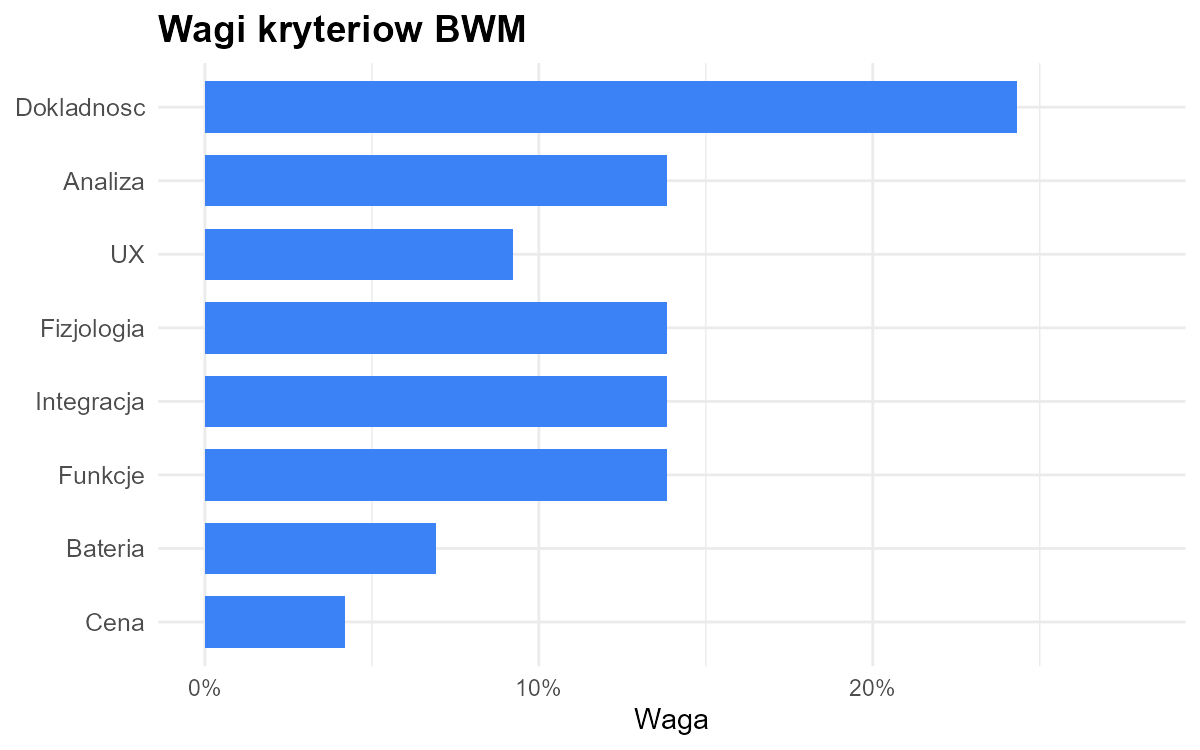
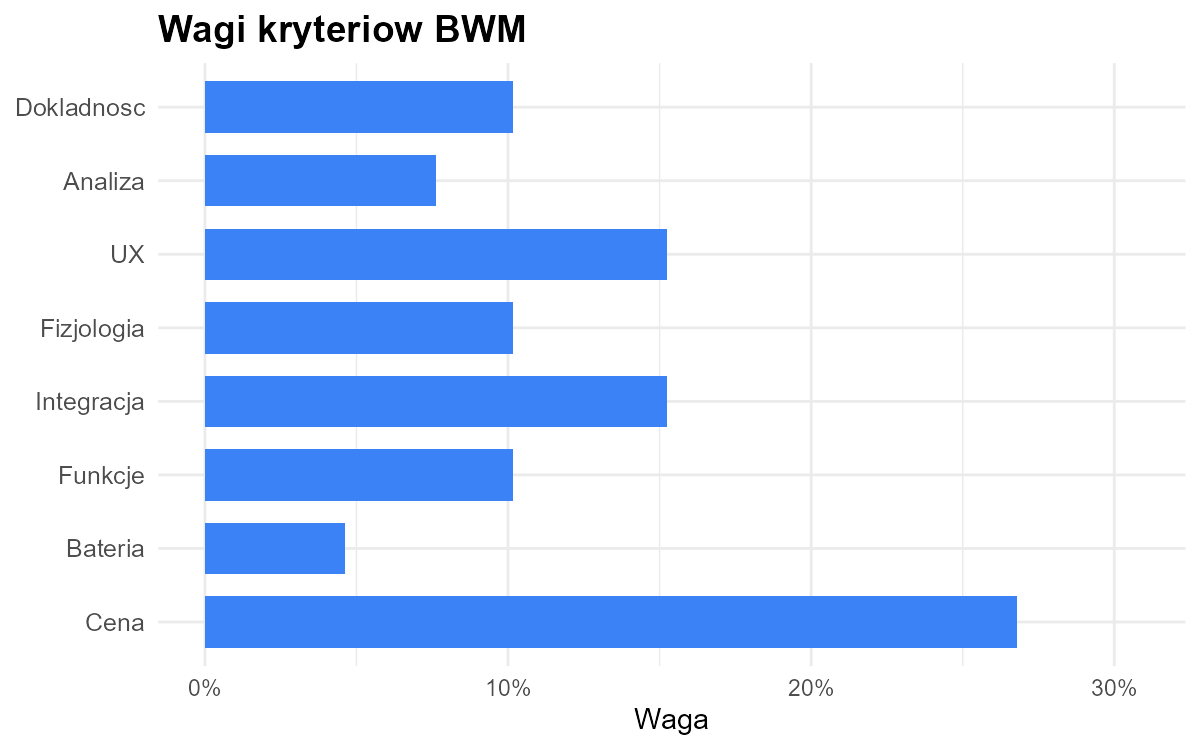
poprawa: zmiana wag kryteriow w BWM na cene i stabilizacja rankingu we wszystkich metodach

diff --git a/index.html b/index.html
@@ -513,36 +513,36 @@
               </tr>
             </thead>
             <tbody>
-              <tr><td>1</td><td>AutoSleep</td><td>5</td><td>6</td><td>8</td><td>5</td><td>5</td><td>6</td><td>9</td><td>3</td></tr>
-              <tr><td>2</td><td>AutoSleep</td><td>1</td><td>6</td><td>6</td><td>6</td><td>7</td><td>5</td><td>9</td><td>9</td></tr>
-              <tr><td>3</td><td>AutoSleep</td><td>8</td><td>8</td><td>7</td><td>9</td><td>5</td><td>8</td><td>6</td><td>9</td></tr>
-              <tr><td>4</td><td>AutoSleep</td><td>9</td><td>9</td><td>9</td><td>3</td><td>2</td><td>8</td><td>6</td><td>1</td></tr>
-              <tr><td>5</td><td>AutoSleep</td><td>2</td><td>7</td><td>9</td><td>8</td><td>7</td><td>8</td><td>3</td><td>1</td></tr>
-              <tr><td>6</td><td>AutoSleep</td><td>7</td><td>6</td><td>9</td><td>3</td><td>7</td><td>9</td><td>1</td><td>4</td></tr>
-              <tr><td>7</td><td>AutoSleep</td><td>9</td><td>3</td><td>7</td><td>7</td><td>4</td><td>8</td><td>4</td><td>9</td></tr>
-              <tr><td>8</td><td>AutoSleep</td><td>6</td><td>6</td><td>9</td><td>9</td><td>6</td><td>9</td><td>3</td><td>5</td></tr>
-              <tr><td>9</td><td>AutoSleep</td><td>9</td><td>5</td><td>5</td><td>2</td><td>5</td><td>9</td><td>2</td><td>4</td></tr>
-              <tr><td>10</td><td>AutoSleep</td><td>1</td><td>9</td><td>9</td><td>5</td><td>9</td><td>6</td><td>5</td><td>5</td></tr>
-              <tr><td>11</td><td>AutoSleep</td><td>7</td><td>4</td><td>9</td><td>5</td><td>9</td><td>5</td><td>2</td><td>2</td></tr>
-              <tr><td>12</td><td>AutoSleep</td><td>5</td><td>4</td><td>7</td><td>6</td><td>5</td><td>7</td><td>4</td><td>3</td></tr>
-              <tr><td>13</td><td>AutoSleep</td><td>8</td><td>6</td><td>9</td><td>2</td><td>6</td><td>7</td><td>3</td><td>1</td></tr>
-              <tr><td>14</td><td>AutoSleep</td><td>6</td><td>6</td><td>8</td><td>2</td><td>5</td><td>8</td><td>2</td><td>7</td></tr>
-              <tr><td>15</td><td>AutoSleep</td><td>8</td><td>7</td><td>9</td><td>5</td><td>7</td><td>6</td><td>4</td><td>2</td></tr>
-              <tr><td>1</td><td>Sleep as Android</td><td>9</td><td>9</td><td>6</td><td>7</td><td>6</td><td>6</td><td>9</td><td>9</td></tr>
-              <tr><td>2</td><td>Sleep as Android</td><td>2</td><td>6</td><td>3</td><td>6</td><td>5</td><td>6</td><td>4</td><td>3</td></tr>
-              <tr><td>3</td><td>Sleep as Android</td><td>8</td><td>1</td><td>1</td><td>6</td><td>5</td><td>6</td><td>4</td><td>3</td></tr>
-              <tr><td>4</td><td>Sleep as Android</td><td>9</td><td>9</td><td>7</td><td>7</td><td>1</td><td>5</td><td>3</td><td>4</td></tr>
-              <tr><td>5</td><td>Sleep as Android</td><td>8</td><td>9</td><td>1</td><td>5</td><td>5</td><td>1</td><td>3</td><td>7</td></tr>
-              <tr><td>6</td><td>Sleep as Android</td><td>9</td><td>7</td><td>9</td><td>4</td><td>3</td><td>9</td><td>5</td><td>4</td></tr>
-              <tr><td>7</td><td>Sleep as Android</td><td>9</td><td>4</td><td>4</td><td>9</td><td>1</td><td>5</td><td>3</td><td>6</td></tr>
-              <tr><td>8</td><td>Sleep as Android</td><td>9</td><td>9</td><td>6</td><td>4</td><td>6</td><td>8</td><td>1</td><td>7</td></tr>
-              <tr><td>9</td><td>Sleep as Android</td><td>8</td><td>1</td><td>7</td><td>5</td><td>4</td><td>6</td><td>3</td><td>9</td></tr>
-              <tr><td>10</td><td>Sleep as Android</td><td>9</td><td>4</td><td>6</td><td>6</td><td>9</td><td>6</td><td>3</td><td>1</td></tr>
-              <tr><td>11</td><td>Sleep as Android</td><td>9</td><td>6</td><td>5</td><td>7</td><td>2</td><td>4</td><td>1</td><td>8</td></tr>
-              <tr><td>12</td><td>Sleep as Android</td><td>9</td><td>9</td><td>4</td><td>9</td><td>5</td><td>9</td><td>1</td><td>5</td></tr>
-              <tr><td>13</td><td>Sleep as Android</td><td>9</td><td>5</td><td>6</td><td>6</td><td>4</td><td>8</td><td>9</td><td>6</td></tr>
-              <tr><td>14</td><td>Sleep as Android</td><td>8</td><td>6</td><td>6</td><td>7</td><td>3</td><td>4</td><td>4</td><td>5</td></tr>
-              <tr><td>15</td><td>Sleep as Android</td><td>3</td><td>8</td><td>4</td><td>7</td><td>2</td><td>9</td><td>9</td><td>4</td></tr>
+              <tr><td>1</td><td>AutoSleep</td><td>6</td><td>7</td><td>8</td><td>6</td><td>6</td><td>6</td><td>9</td><td>2</td></tr>
+              <tr><td>2</td><td>AutoSleep</td><td>1</td><td>7</td><td>6</td><td>7</td><td>8</td><td>5</td><td>9</td><td>9</td></tr>
+              <tr><td>3</td><td>AutoSleep</td><td>9</td><td>9</td><td>7</td><td>9</td><td>6</td><td>8</td><td>5</td><td>9</td></tr>
+              <tr><td>4</td><td>AutoSleep</td><td>9</td><td>9</td><td>9</td><td>2</td><td>3</td><td>8</td><td>5</td><td>1</td></tr>
+              <tr><td>5</td><td>AutoSleep</td><td>1</td><td>8</td><td>9</td><td>9</td><td>8</td><td>8</td><td>2</td><td>1</td></tr>
+              <tr><td>6</td><td>AutoSleep</td><td>8</td><td>7</td><td>9</td><td>4</td><td>8</td><td>9</td><td>1</td><td>3</td></tr>
+              <tr><td>7</td><td>AutoSleep</td><td>9</td><td>4</td><td>7</td><td>8</td><td>5</td><td>8</td><td>3</td><td>9</td></tr>
+              <tr><td>8</td><td>AutoSleep</td><td>7</td><td>7</td><td>9</td><td>9</td><td>7</td><td>9</td><td>2</td><td>4</td></tr>
+              <tr><td>9</td><td>AutoSleep</td><td>9</td><td>6</td><td>5</td><td>3</td><td>6</td><td>9</td><td>1</td><td>3</td></tr>
+              <tr><td>10</td><td>AutoSleep</td><td>2</td><td>9</td><td>9</td><td>6</td><td>9</td><td>6</td><td>4</td><td>4</td></tr>
+              <tr><td>11</td><td>AutoSleep</td><td>8</td><td>5</td><td>9</td><td>6</td><td>9</td><td>5</td><td>1</td><td>1</td></tr>
+              <tr><td>12</td><td>AutoSleep</td><td>6</td><td>5</td><td>7</td><td>7</td><td>6</td><td>7</td><td>3</td><td>2</td></tr>
+              <tr><td>13</td><td>AutoSleep</td><td>9</td><td>7</td><td>9</td><td>3</td><td>7</td><td>7</td><td>4</td><td>1</td></tr>
+              <tr><td>14</td><td>AutoSleep</td><td>7</td><td>7</td><td>8</td><td>3</td><td>6</td><td>8</td><td>1</td><td>6</td></tr>
+              <tr><td>15</td><td>AutoSleep</td><td>9</td><td>8</td><td>9</td><td>6</td><td>8</td><td>6</td><td>3</td><td>1</td></tr>
+              <tr><td>1</td><td>Sleep as Android</td><td>9</td><td>8</td><td>6</td><td>6</td><td>6</td><td>5</td><td>9</td><td>9</td></tr>
+              <tr><td>2</td><td>Sleep as Android</td><td>3</td><td>5</td><td>3</td><td>5</td><td>5</td><td>7</td><td>5</td><td>3</td></tr>
+              <tr><td>3</td><td>Sleep as Android</td><td>7</td><td>1</td><td>1</td><td>5</td><td>5</td><td>5</td><td>5</td><td>3</td></tr>
+              <tr><td>4</td><td>Sleep as Android</td><td>9</td><td>9</td><td>7</td><td>8</td><td>1</td><td>4</td><td>4</td><td>4</td></tr>
+              <tr><td>5</td><td>Sleep as Android</td><td>7</td><td>9</td><td>1</td><td>4</td><td>5</td><td>1</td><td>4</td><td>7</td></tr>
+              <tr><td>6</td><td>Sleep as Android</td><td>9</td><td>6</td><td>9</td><td>3</td><td>3</td><td>9</td><td>6</td><td>4</td></tr>
+              <tr><td>7</td><td>Sleep as Android</td><td>9</td><td>3</td><td>4</td><td>8</td><td>1</td><td>4</td><td>4</td><td>6</td></tr>
+              <tr><td>8</td><td>Sleep as Android</td><td>8</td><td>9</td><td>6</td><td>3</td><td>6</td><td>7</td><td>2</td><td>7</td></tr>
+              <tr><td>9</td><td>Sleep as Android</td><td>7</td><td>1</td><td>7</td><td>4</td><td>4</td><td>5</td><td>4</td><td>9</td></tr>
+              <tr><td>10</td><td>Sleep as Android</td><td>9</td><td>3</td><td>6</td><td>5</td><td>9</td><td>5</td><td>4</td><td>1</td></tr>
+              <tr><td>11</td><td>Sleep as Android</td><td>8</td><td>5</td><td>5</td><td>6</td><td>2</td><td>3</td><td>2</td><td>8</td></tr>
+              <tr><td>12</td><td>Sleep as Android</td><td>9</td><td>9</td><td>4</td><td>9</td><td>5</td><td>8</td><td>1</td><td>5</td></tr>
+              <tr><td>13</td><td>Sleep as Android</td><td>8</td><td>4</td><td>6</td><td>5</td><td>4</td><td>7</td><td>9</td><td>6</td></tr>
+              <tr><td>14</td><td>Sleep as Android</td><td>7</td><td>5</td><td>6</td><td>6</td><td>3</td><td>3</td><td>5</td><td>5</td></tr>
+              <tr><td>15</td><td>Sleep as Android</td><td>2</td><td>7</td><td>4</td><td>6</td><td>2</td><td>9</td><td>9</td><td>4</td></tr>
               <tr><td>1</td><td>Garmin Sleep Advanced</td><td>5</td><td>1</td><td>9</td><td>8</td><td>6</td><td>6</td><td>9</td><td>7</td></tr>
               <tr><td>2</td><td>Garmin Sleep Advanced</td><td>6</td><td>2</td><td>6</td><td>4</td><td>9</td><td>3</td><td>9</td><td>9</td></tr>
               <tr><td>3</td><td>Garmin Sleep Advanced</td><td>3</td><td>7</td><td>2</td><td>9</td><td>8</td><td>5</td><td>5</td><td>9</td></tr>
@@ -586,16 +586,16 @@
         <div class="section-label">SEKCJA 4</div>
         <h3>Wagi kryteriów</h3>
         <p>Wagi kryteriów zostały wyznaczone metodą Best-Worst Method (BWM).</p>
-        <p>W przykładowej analizie za najważniejsze kryterium uznano dokładność pomiaru snu.</p>
+        <p>W przykładowej analizie za najważniejsze kryterium uznano cenę/subskrypcję, a także łatwość obsługi (UX) i integrację z urządzeniami.</p>
         <div class="info-boxes" style="grid-template-columns: repeat(4, 1fr); margin-top: 18px;">
-          <div class="info-box"><h4>Dokladnosc</h4><p>24.3%</p></div>
-            <div class="info-box"><h4>Analiza</h4><p>13.8%</p></div>
-            <div class="info-box"><h4>UX</h4><p>9.2%</p></div>
-            <div class="info-box"><h4>Fizjologia</h4><p>13.8%</p></div>
-            <div class="info-box"><h4>Integracja</h4><p>13.8%</p></div>
-            <div class="info-box"><h4>Funkcje</h4><p>13.8%</p></div>
-            <div class="info-box"><h4>Bateria</h4><p>6.9%</p></div>
-            <div class="info-box"><h4>Cena</h4><p>4.2%</p></div>
+          <div class="info-box"><h4>Dokladnosc</h4><p>10.2%</p></div>
+            <div class="info-box"><h4>Analiza</h4><p>7.6%</p></div>
+            <div class="info-box"><h4>UX</h4><p>15.2%</p></div>
+            <div class="info-box"><h4>Fizjologia</h4><p>10.2%</p></div>
+            <div class="info-box"><h4>Integracja</h4><p>15.2%</p></div>
+            <div class="info-box"><h4>Funkcje</h4><p>10.2%</p></div>
+            <div class="info-box"><h4>Bateria</h4><p>4.6%</p></div>
+            <div class="info-box"><h4>Cena</h4><p>26.8%</p></div>
         </div>
         <img src="man/figures/README-bwm-1.png" class="chart-img" alt="Wagi BWM">
       </section>
@@ -612,7 +612,7 @@
           </div>
           <div class="result-card secondary">
             <h4>Czy ranking jest stabilny?</h4>
-            <p>Do sprawdzenia</p>
+            <p>Tak</p>
           </div>
           <table class="meta-table">
             <thead>
@@ -625,8 +625,8 @@
               </tr>
             </thead>
             <tbody>
-              <tr><td>1</td><td>AutoSleep</td><td>1</td><td>2</td><td>1</td></tr>
-            <tr><td>2</td><td>Sleep as Android</td><td>2</td><td>1</td><td>2</td></tr>
+              <tr><td>1</td><td>AutoSleep</td><td>1</td><td>1</td><td>1</td></tr>
+            <tr><td>2</td><td>Sleep as Android</td><td>2</td><td>2</td><td>2</td></tr>
             <tr><td>3</td><td>Garmin Sleep Advanced</td><td>3</td><td>3</td><td>3</td></tr>
             </tbody>
           </table>

diff --git a/README.md b/README.md
@@ -50,35 +50,35 @@ data("mcda_dane_surowe")
 
 head(mcda_dane_surowe, 9)
 #>   EkspertID Aplikacja dokladnosc_faz_snu analiza_statystyk ux_latwosc
-#> 1         1 AutoSleep                  5                 6          8
-#> 2         2 AutoSleep                  1                 6          6
-#> 3         3 AutoSleep                  8                 8          7
+#> 1         1 AutoSleep                  6                 7          8
+#> 2         2 AutoSleep                  1                 7          6
+#> 3         3 AutoSleep                  9                 9          7
 #> 4         4 AutoSleep                  9                 9          9
-#> 5         5 AutoSleep                  2                 7          9
-#> 6         6 AutoSleep                  7                 6          9
-#> 7         7 AutoSleep                  9                 3          7
-#> 8         8 AutoSleep                  6                 6          9
-#> 9         9 AutoSleep                  9                 5          5
+#> 5         5 AutoSleep                  1                 8          9
+#> 6         6 AutoSleep                  8                 7          9
+#> 7         7 AutoSleep                  9                 4          7
+#> 8         8 AutoSleep                  7                 7          9
+#> 9         9 AutoSleep                  9                 6          5
 #>   dane_fizjologiczne integracja_urzadzenia funkcje_dodatkowe zuzycie_baterii
-#> 1                  5                     5                 6               9
-#> 2                  6                     7                 5               9
-#> 3                  9                     5                 8               6
-#> 4                  3                     2                 8               6
-#> 5                  8                     7                 8               3
-#> 6                  3                     7                 9               1
-#> 7                  7                     4                 8               4
-#> 8                  9                     6                 9               3
-#> 9                  2                     5                 9               2
+#> 1                  6                     6                 6               9
+#> 2                  7                     8                 5               9
+#> 3                  9                     6                 8               5
+#> 4                  2                     3                 8               5
+#> 5                  9                     8                 8               2
+#> 6                  4                     8                 9               1
+#> 7                  8                     5                 8               3
+#> 8                  9                     7                 9               2
+#> 9                  3                     6                 9               1
 #>   cena_subskrypcja
-#> 1                3
+#> 1                2
 #> 2                9
 #> 3                9
 #> 4                1
 #> 5                1
-#> 6                4
+#> 6                3
 #> 7                9
-#> 8                5
-#> 9                4
+#> 8                4
+#> 9                3
 ```
 
 Przygotowanie rozmytej macierzy decyzyjnej:
@@ -103,20 +103,20 @@ dane_rozmyte <- przygotuj_dane_mcda(
 
 dane_rozmyte
 #>                              l        m        u        l        m        u
-#> AutoSleep             5.066667 6.066667 7.066667 5.133333 6.133333 7.133333
-#> Sleep as Android      6.866667 7.866667 8.866667 5.200000 6.200000 7.200000
+#> AutoSleep             5.666667 6.666667 7.666667 6.000000 7.000000 8.000000
+#> Sleep as Android      6.400000 7.400000 8.400000 4.600000 5.600000 6.600000
 #> Garmin Sleep Advanced 5.200000 6.200000 7.200000 2.933333 3.933333 4.933333
 #>                              l        m        u        l        m        u
-#> AutoSleep             7.000000 8.000000 9.000000 3.580952 4.580952 5.580952
-#> Sleep as Android      4.000000 5.000000 6.000000 4.952381 5.952381 6.952381
+#> AutoSleep             7.000000 8.000000 9.000000 4.419048 5.419048 6.419048
+#> Sleep as Android      4.000000 5.000000 6.000000 4.038095 5.038095 6.038095
 #> Garmin Sleep Advanced 5.133333 6.133333 7.133333 3.733333 4.733333 5.733333
 #>                              l        m        u        l        m        u
-#> AutoSleep             4.933333 5.933333 6.933333 6.266667 7.266667 8.266667
-#> Sleep as Android      3.066667 4.066667 5.066667 5.133333 6.133333 7.133333
+#> AutoSleep             5.800000 6.800000 7.800000 6.266667 7.266667 8.266667
+#> Sleep as Android      3.066667 4.066667 5.066667 4.466667 5.466667 6.466667
 #> Garmin Sleep Advanced 6.466667 7.466667 8.466667 3.400000 4.400000 5.400000
 #>                              l        m        u        l        m        u
-#> AutoSleep             3.200000 4.200000 5.200000 3.333333 4.333333 5.333333
-#> Sleep as Android      3.133333 4.133333 5.133333 4.400000 5.400000 6.400000
+#> AutoSleep             2.533333 3.533333 4.533333 2.733333 3.733333 4.733333
+#> Sleep as Android      3.866667 4.866667 5.866667 4.400000 5.400000 6.400000
 #> Garmin Sleep Advanced 6.600000 7.600000 8.600000 5.933333 6.933333 7.933333
 #> attr(,"nazwy_kryteriow")
 #> [1] "Dokladnosc" "Analiza"    "UX"         "Fizjologia" "Integracja"
@@ -131,8 +131,8 @@ kryteria <- c(
   "Integracja", "Funkcje", "Bateria", "Cena"
 )
 
-najlepsze_do_innych <- c(1, 2, 3, 2, 2, 2, 4, 5)
-inne_do_najgorszego <- c(5, 4, 3, 4, 4, 4, 2, 1)
+najlepsze_do_innych <- c(3, 4, 2, 3, 2, 3, 5, 1)
+inne_do_najgorszego <- c(3, 2, 4, 3, 4, 3, 1, 5)
 
 wynik_bwm <- oblicz_wagi_bwm(
   nazwy_kryteriow = kryteria,
@@ -145,14 +145,14 @@ data.frame(
   Waga = round(wynik_bwm$wagi_kryteriow, 4)
 )
 #>    Kryterium   Waga
-#> 1 Dokladnosc 0.2432
-#> 2    Analiza 0.1384
-#> 3         UX 0.0922
-#> 4 Fizjologia 0.1384
-#> 5 Integracja 0.1384
-#> 6    Funkcje 0.1384
-#> 7    Bateria 0.0692
-#> 8       Cena 0.0419
+#> 1 Dokladnosc 0.1016
+#> 2    Analiza 0.0762
+#> 3         UX 0.1524
+#> 4 Fizjologia 0.1016
+#> 5 Integracja 0.1524
+#> 6    Funkcje 0.1016
+#> 7    Bateria 0.0462
+#> 8       Cena 0.2679
 ```
 
 ## Meta-ranking
@@ -176,8 +176,8 @@ wynik_meta <- rozmyty_meta_ranking(
 
 wynik_meta$porownanie
 #>             Alternatywa R_VIKOR R_TOPSIS R_MULTIMOORA Meta_Suma Meta_Dominacja
-#> 1             AutoSleep       2        1            1         1              1
-#> 2      Sleep as Android       1        2            2         2              2
+#> 1             AutoSleep       1        1            1         1              1
+#> 2      Sleep as Android       2        2            2         2              2
 #> 3 Garmin Sleep Advanced       3        3            3         3              3
 #>   Meta_Agregacja
 #> 1              1